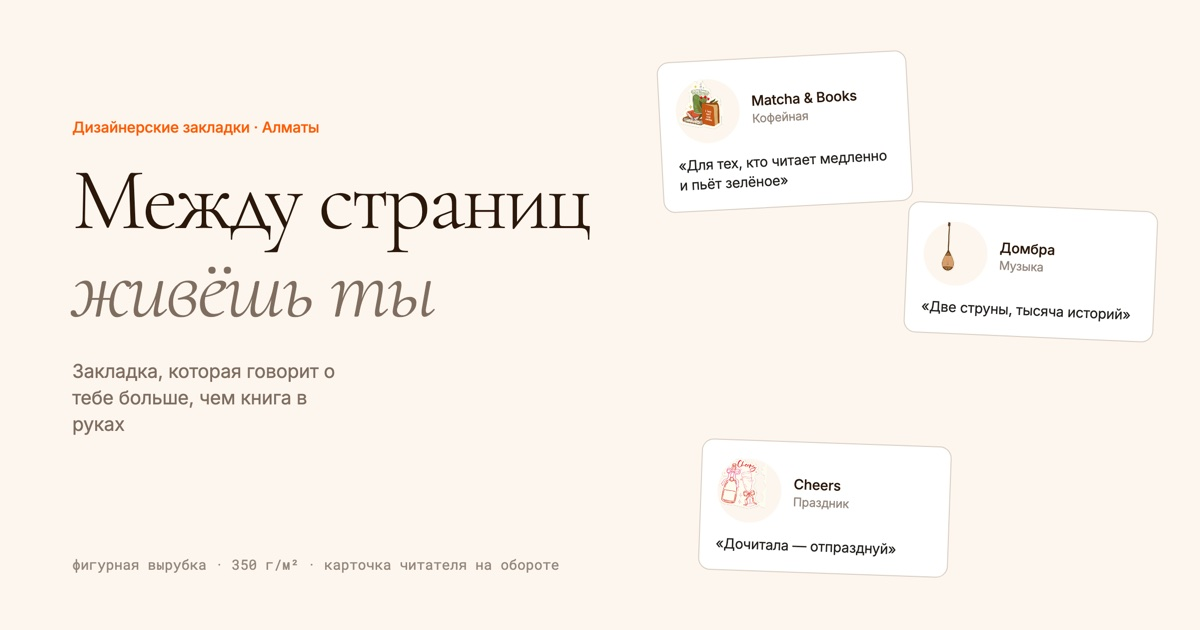
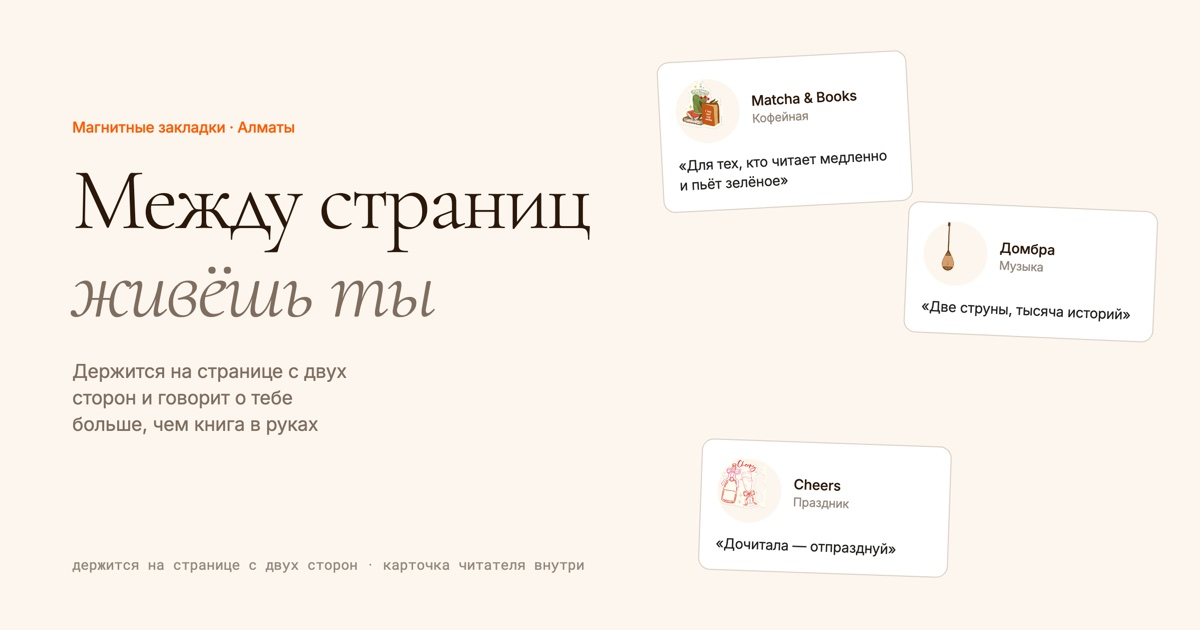
Продукт — магнитная закладка, а не картонная
- убраны все заявления про плотный картон 350 г/м%s, матовую ламинацию и стикер-вырубку
- описание переписано: перегибается через край страницы и держится с двух сторон,
  иллюстрация снаружи, карточка читателя внутри
- в «Из чего сделано» карточки «Магнит» и «Как надеть» вместо основы и покрытия
- причина №%s стала «Магнит, а не картонка»
- отзыв про несгибаемый картон заменён на отзыв про то, что магнит держит
- мета-описания, эйбрау и баннер-превью: «магнитные закладки»

Changed region(s): [[0.0617, 0.573, 0.3083, 0.6937], [0.0617, 0.8746, 0.4933, 0.9048], [0.0617, 0.181, 0.2775, 0.2111]]

diff --git a/index.html b/index.html
@@ -1,6 +1,6 @@
 <meta charset="utf-8">
 <meta name="viewport" content="width=device-width, initial-scale=1">
-<meta name="description" content="Between Pages — дизайнерские закладки для книг. Каталог, наборы и афиша встреч в Алматы.">
+<meta name="description" content="Between Pages — магнитные закладки для книг. Каталог, наборы и афиша встреч в Алматы.">
 <meta name="theme-color" content="#fdf6ee">
 <link rel="canonical" href="https://between-pages-vert.vercel.app/">
 <link rel="icon" type="image/png" sizes="64x64" href="assets/favicon.png">
@@ -12,17 +12,17 @@
 <meta property="og:locale" content="ru_RU">
 <meta property="og:url" content="https://between-pages-vert.vercel.app/">
 <meta property="og:title" content="Between Pages — между страниц живёшь ты">
-<meta property="og:description" content="Дизайнерские закладки для книг: матча, гонки, теннис, рояль, домбра, Cheers. Наборы в крафт-конверте. Самовывоз в Алматы или курьер Казпочты.">
+<meta property="og:description" content="Магнитные закладки для книг: матча, гонки, теннис, рояль, домбра, Cheers. Держатся на странице с двух сторон, внутри — карточка читателя.">
 <meta property="og:image" content="https://between-pages-vert.vercel.app/assets/og-cover.jpg">
 <meta property="og:image:type" content="image/jpeg">
 <meta property="og:image:width" content="1200">
 <meta property="og:image:height" content="630">
-<meta property="og:image:alt" content="Логотип Between Pages и закладки: матча, болид №16, Cheers, рояль">
+<meta property="og:image:alt" content="Магнитные закладки Between Pages: матча, домбра, Cheers">
 
 <!-- Превью ссылки: X / Twitter -->
 <meta name="twitter:card" content="summary_large_image">
 <meta name="twitter:title" content="Between Pages — между страниц живёшь ты">
-<meta name="twitter:description" content="Дизайнерские закладки для книг. Наборы в крафт-конверте. Самовывоз в Алматы или курьер Казпочты.">
+<meta name="twitter:description" content="Магнитные закладки для книг. Держатся на странице с двух сторон, внутри — карточка читателя.">
 <meta name="twitter:image" content="https://between-pages-vert.vercel.app/assets/og-cover.jpg">
 
 <title>Between Pages</title>
@@ -545,14 +545,14 @@ body.has-cart .cart-bar{display:flex}
     </div>
 
     <div class="hero-mid">
-      <p class="eyebrow">Дизайнерские закладки · Алматы</p>
+      <p class="eyebrow">Магнитные закладки · Алматы</p>
       <h1>Между страниц <em>живёшь ты</em></h1>
       <p class="body-lg">Закладка — единственная вещь, которую читатель видит чаще обложки. Мы делаем эту встречу про тебя: про матчу по утрам, воскресные гонки, корт, рояль и бокал в пятницу.</p>
       <div class="hero-cta">
         <a class="btn btn-primary" href="#catalog">Выбрать закладку</a>
         <a class="btn btn-ghost" href="#events">Посмотреть афишу</a>
       </div>
-      <p class="hero-note mono">фигурная вырубка · 350 г/м² · самовывоз или курьер</p>
+      <p class="hero-note mono">магнитная закладка · самовывоз или курьер</p>
     </div>
 
     <div class="orbit-grid" id="orbitGrid"></div>
@@ -572,8 +572,8 @@ body.has-cart .cart-bar{display:flex}
         <p class="body">Пять коллекций собраны не по жанрам книг, а по тому, чем человек живёт: матча, гонки, корт, рояль, пятничный бокал.</p>
       </div>
       <div class="reason">
-        <h3>Дневник на обороте</h3>
-        <p class="body">С другой стороны — карточка читателя: название, дата начала и конца, строки для мыслей. Дочитал — закладка осталась записью.</p>
+        <h3>Магнит, а не картонка</h3>
+        <p class="body">Перегибается через страницу и держится с двух сторон — не выпадает из закрытой книги. А внутри, на второй половинке, карточка читателя: название, даты, строки для мыслей.</p>
       </div>
       <div class="reason">
         <h3>Готовый подарок</h3>
@@ -689,7 +689,7 @@ body.has-cart .cart-bar{display:flex}
     <div class="sec">
       <p class="eyebrow">Каталог</p>
       <h2>Десять закладок<br><em>первой партии</em></h2>
-      <p>Плотный картон 350 г/м², матовая ламинация, вырубка по контуру иллюстрации. На обороте — карточка читателя.</p>
+      <p>Магнитная закладка: перегибается через край страницы и держится с двух сторон. Иллюстрация снаружи, карточка читателя — внутри.</p>
     </div>
 
     <div class="filters" id="filters">
@@ -901,26 +901,26 @@ body.has-cart .cart-bar{display:flex}
     <div class="sec">
       <p class="eyebrow">Из чего сделано</p>
       <h2>Печатаем небольшими тиражами<br><em>и проверяем каждую партию</em></h2>
-      <p>Никакого тонкого картона и глянца, который залапывается. Одна закладка живёт дольше, чем книга, в которой лежит.</p>
+      <p>Не выпадает, когда книга закрыта и лежит в сумке: магнит обнимает страницу с двух сторон и держит место.</p>
     </div>
     <div class="trust">
       <div class="trust-col">
         <div class="spec-card">
-          <h3>Основа</h3>
-          <p class="body">Плотный картон, который не сгибается пополам в сумке и держит форму до конца книги.</p>
-          <p class="mono">350 г/м²</p>
+          <h3>Магнит</h3>
+          <p class="body">Две половинки складываются через страницу и схватываются между собой. Книгу можно нести как угодно — место останется отмеченным.</p>
+          <p class="mono">держит с двух сторон</p>
         </div>
         <div class="spec-card">
-          <h3>Покрытие</h3>
-          <p class="body">Матовая ламинация: не бликует на фото, не собирает отпечатки, не выцветает на солнце.</p>
-          <p class="mono">matte · soft touch</p>
+          <h3>Как надеть</h3>
+          <p class="body">Перегнуть по сгибу и защёлкнуть на краю страницы. Снимается так же — страницу не мнёт и следов не оставляет.</p>
+          <p class="mono">один щелчок</p>
         </div>
       </div>
       <div class="portrait">
         <img src="assets/pair-matcha.png" alt="Закладка «Matcha &amp; Books»: иллюстрация и оборот с карточкой читателя">
         <div class="cap">
-          <b>Лицо и оборот</b>
-          <span>Иллюстрация с одной стороны, карточка читателя — с другой</span>
+          <b>Обе половинки</b>
+          <span>Иллюстрация снаружи, карточка читателя внутри — складывается через страницу</span>
         </div>
       </div>
       <div class="trust-col">
@@ -932,7 +932,7 @@ body.has-cart .cart-bar{display:flex}
         <div class="spec-card">
           <h3>Упаковка</h3>
           <p class="body">Крафт-конверт с логотипом. В наборах — открытка, подписанная от руки.</p>
-          <p class="mono">крафт · 120 г/м²</p>
+          <p class="mono">крафт-конверт</p>
         </div>
       </div>
     </div>
@@ -948,7 +948,7 @@ body.has-cart .cart-bar{display:flex}
     <div class="about">
       <p class="body-lg">Between Pages родился из простого наблюдения: закладка — единственная вещь, которую читатель видит чаще, чем обложку. Каждый раз, открывая книгу, ты встречаешься с ней.</p>
       <p class="body-lg">Мы решили, что эта встреча должна быть про тебя. Не про «книги вообще», а про твою матчу по утрам, твоё воскресенье у экрана с гонками, твой корт, твой рояль, твой бокал в пятницу вечером.</p>
-      <p class="body-lg">Каждая закладка — плотная иллюстрация в стикер-стиле, которая не мнётся и не выцветает. Печатаем небольшими тиражами в Алматы и отправляем по всему Казахстану.</p>
+      <p class="body-lg">Каждая закладка магнитная: перегибается через страницу и держится с двух сторон, поэтому не выпадает даже из закрытой книги в сумке. Делаем небольшими тиражами в Алматы и отправляем по всему Казахстану.</p>
       <p class="sign">Отметь страницу. Отметь себя.</p>
     </div>
   </div>
@@ -993,7 +993,7 @@ body.has-cart .cart-bar{display:flex}
         <div class="who"><span class="ava">А</span><span><b>Айгерим</b><span>Алматы</span></span></div>
       </div>
       <div class="rev">
-        <q>Плотная, не гнётся в сумке, углы не лохматятся. За месяц выглядит как новая — а я таскаю книгу везде.</q>
+        <q>Магнит держит крепко: книга валяется в рюкзаке, а страница на месте. Раньше обычные закладки у меня вечно выпадали.</q>
         <div class="who"><span class="ava">Д</span><span><b>Данияр</b><span>Астана</span></span></div>
       </div>
       <div class="rev">

diff --git a/assets/og-cover-source.html b/assets/og-cover-source.html
@@ -26,11 +26,11 @@
   .c3{right:250px;bottom:56px;transform:rotate(2deg)}
 </style>
 <div class="l">
-  <p class="eyebrow">Дизайнерские закладки · Алматы</p>
+  <p class="eyebrow">Магнитные закладки · Алматы</p>
   <h1>Между страниц<br><em>живёшь ты</em></h1>
-  <p class="lead">Закладка, которая говорит о тебе больше, чем книга в руках</p>
+  <p class="lead">Держится на странице с двух сторон и говорит о тебе больше, чем книга в руках</p>
 </div>
-<p class="mono">фигурная вырубка · 350 г/м² · карточка читателя на обороте</p>
+<p class="mono">держится на странице с двух сторон · карточка читателя внутри</p>
 <article class="qcard c1">
   <div class="who"><span class="ava"><img src="./matcha.png" alt=""></span><span><b>Matcha &amp; Books</b><span>Кофейная</span></span></div>
   <q>Для тех, кто читает медленно и пьёт зелёное</q>

diff --git a/README.md b/README.md
@@ -1,10 +1,14 @@
 # Between Pages
 
-Сайт-визитка бренда дизайнерских закладок для книг (Алматы, Казахстан).
+Сайт-визитка бренда магнитных закладок для книг (Алматы, Казахстан).
+
+Закладка перегибается через край страницы и держится с двух сторон: снаружи иллюстрация,
+внутри — карточка читателя (название, даты, строки для мыслей).
 
 Иллюстрации взяты из производственного макета `закладки.pdf`: страницы рендерятся
 `pdftoppm -r 300`, каждая закладка вырезается скриптом, фон делается прозрачным.
-У каждой закладки две стороны — иллюстрация и карточка читателя на обороте.
+В макете каждая закладка — пара половинок: иллюстрация и карточка читателя, которые
+смыкаются на странице.
 
 **Live:** https://between-pages-vert.vercel.app/  
 **Зеркало:** https://qazaqboss.github.io/between-pages/ (GitHub Pages)
